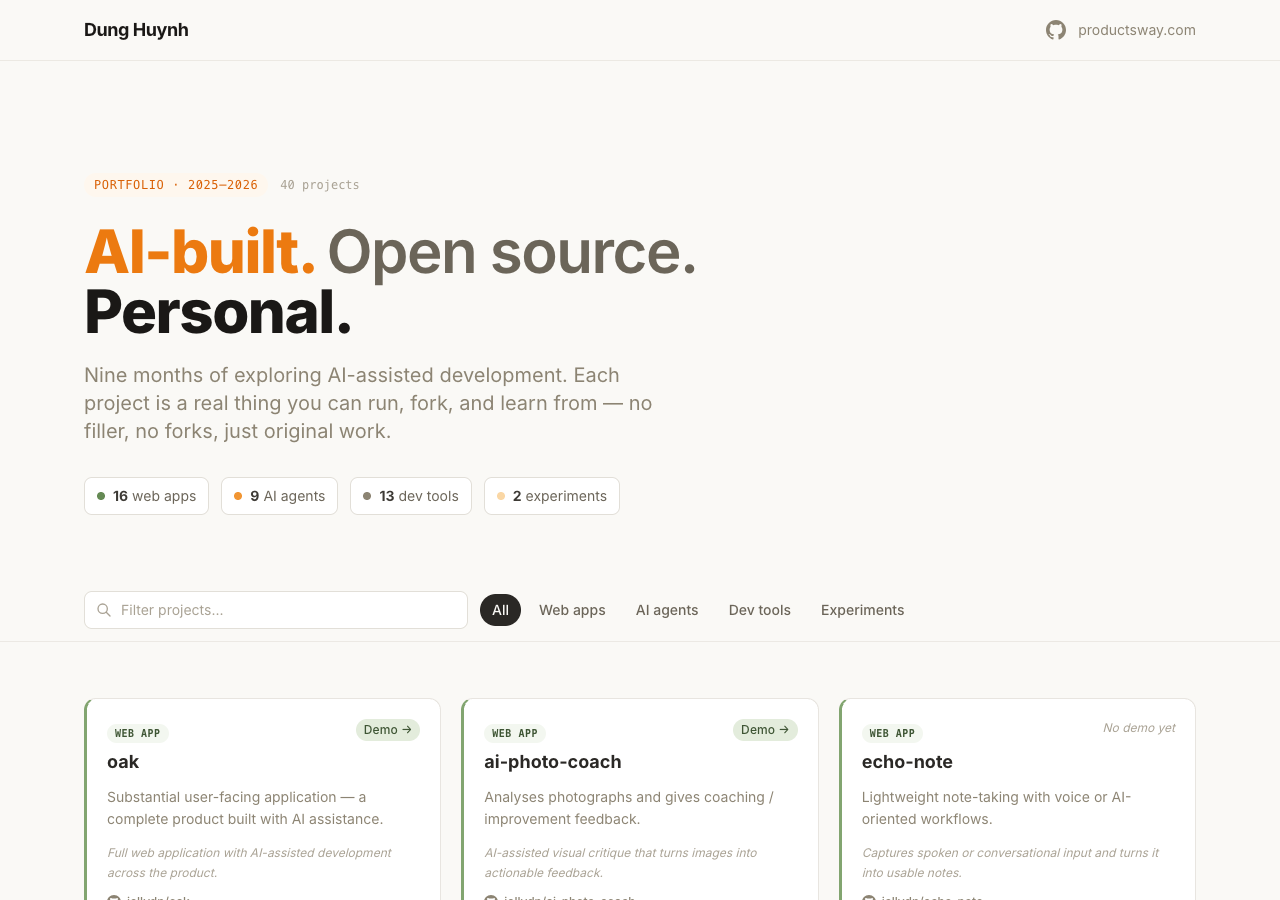
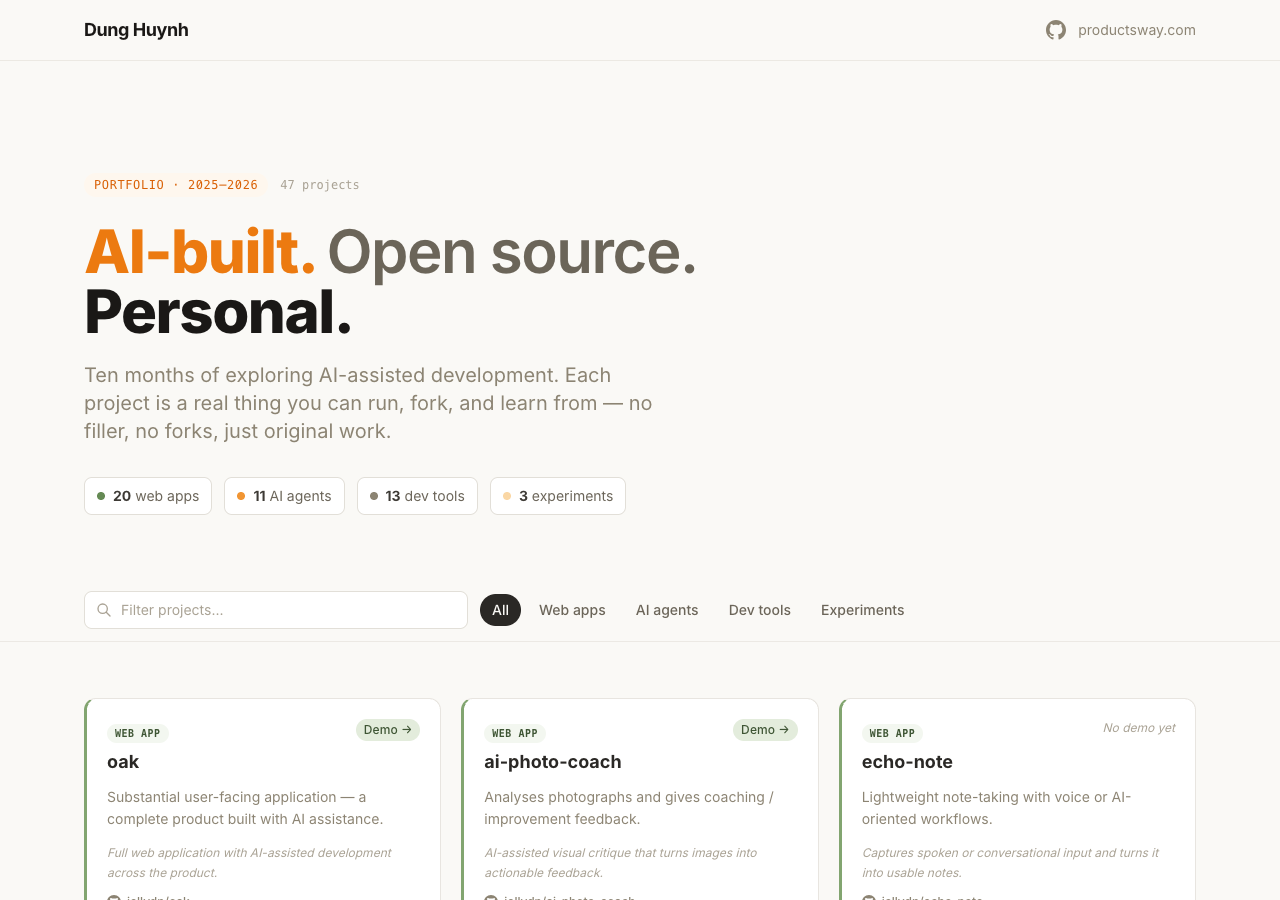
docs(assets): recapture showcase screenshots for the 47-project catalog
The showcase images and the branded OG card were still captures of the
40-project catalog, so every page that states a count sat next to an
image contradicting it — the point raised in review on #16.

- Recaptured 14 assets against the 47-project catalog: hero, the four
  filter views, both search states, the three full-page page captures,
  the desktop/mobile full-page JPGs, the full-page portfolio shot, and
  the README screenshot
- Rebuilt the OG share card, which still carried the 40-project copy, and
  committed its layout as docs/og-card.html so the next catalog change can
  regenerate it instead of recreating the design by hand
- Updated the declared width/height attributes to the real asset
  dimensions and verified every reference against the files, restoring
  the count-bearing alt text and captions now that the images match
- docs/images/README.md documents the capture recipe and the two
  content-visibility pitfalls that silently blank full-page captures

🤖 Generated with Codebuff

Changed region(s): [[0.0625, 0.4044, 0.5, 0.4356], [0.0938, 0.5289, 0.5, 0.56]]

diff --git a/docs/og-card.html b/docs/og-card.html
@@ -1,0 +1,139 @@
+<!DOCTYPE html>
+<html lang="en">
+<head>
+<meta charset="UTF-8">
+<title>personal-ai — OG share card source (1200×630)</title>
+<!--
+  Source template for showcase/screenshots/og-card.png.
+
+  This is NOT a page for visitors. It lives in docs/ rather than showcase/
+  because scripts/check-json-ld.js treats every showcase/*.html file as a real
+  page that must carry its own canonical URL and structured data.
+
+  Why it exists: the original card was rendered from a throwaway layout that was
+  never committed, so the branded share image could not be regenerated after the
+  catalog changed. Keeping the layout here makes the card reproducible.
+
+  Regenerate from the repository root:
+
+    python3 -m http.server 4321 --bind 127.0.0.1
+    agent-browser set viewport 1200 630 1
+    agent-browser open http://127.0.0.1:4321/docs/og-card.html
+    agent-browser wait --fn "document.fonts.status === 'loaded'"
+    agent-browser screenshot showcase/screenshots/og-card.png
+
+  Keep the numbers below in sync with the catalog in index.html.
+-->
+<link rel="preconnect" href="https://fonts.googleapis.com">
+<link rel="preconnect" href="https://fonts.gstatic.com" crossorigin>
+<link rel="stylesheet" href="https://fonts.googleapis.com/css2?family=Inter:wght@400;500;600;700;800&display=swap">
+<style>
+  * { box-sizing: border-box; margin: 0; padding: 0; }
+  html, body { width: 1200px; height: 630px; overflow: hidden; }
+  body {
+    font-family: 'Inter', ui-sans-serif, system-ui, -apple-system, sans-serif;
+    background: #faf9f6;
+    color: #2a2825;
+    display: flex;
+    align-items: center;
+    gap: 44px;
+    padding: 56px 60px;
+    -webkit-font-smoothing: antialiased;
+  }
+  /* Warm bloom in the corner, echoing the site accent without a hard edge. */
+  .glow {
+    position: absolute;
+    width: 520px; height: 520px;
+    right: -140px; top: -180px;
+    background: radial-gradient(circle, rgba(241,149,51,0.18), rgba(241,149,51,0) 68%);
+    border-radius: 50%;
+  }
+  .copy { position: relative; flex: 1 1 auto; max-width: 620px; }
+  .badge {
+    display: inline-block;
+    font-size: 12px;
+    font-weight: 600;
+    letter-spacing: 0.16em;
+    text-transform: uppercase;
+    color: #b44808;
+    background: #fef7ee;
+    border: 1px solid #fad7a5;
+    border-radius: 999px;
+    padding: 7px 13px;
+    margin-bottom: 22px;
+  }
+  h1 {
+    font-size: 47px;
+    line-height: 1.1;
+    font-weight: 800;
+    letter-spacing: -0.02em;
+    color: #1a1816;
+    margin-bottom: 18px;
+  }
+  h1 .accent { color: #ec7a10; }
+  .sub {
+    font-size: 17px;
+    line-height: 1.5;
+    color: #6b6559;
+    margin-bottom: 30px;
+  }
+  .stats { display: flex; gap: 30px; }
+  .stat em {
+    display: block;
+    font-style: normal;
+    font-size: 30px;
+    font-weight: 800;
+    color: #ec7a10;
+    line-height: 1.1;
+  }
+  .stat span {
+    display: block;
+    font-size: 12px;
+    font-weight: 500;
+    letter-spacing: 0.04em;
+    text-transform: uppercase;
+    color: #8c8473;
+    margin-top: 3px;
+  }
+  .shot {
+    position: relative;
+    flex: 0 0 400px;
+    width: 400px;
+    border: 1px solid #e2dfd8;
+    border-radius: 12px;
+    overflow: hidden;
+    background: #fff;
+    box-shadow: 0 26px 50px -18px rgba(42,40,37,0.30);
+    transform: rotate(-1.1deg);
+  }
+  .shot-bar {
+    display: flex;
+    align-items: center;
+    gap: 6px;
+    padding: 9px 12px;
+    background: #f0eeea;
+    border-bottom: 1px solid #e2dfd8;
+  }
+  .shot-bar i { width: 8px; height: 8px; border-radius: 50%; background: #c9c4b8; display: block; }
+  .shot img { display: block; width: 100%; height: auto; }
+</style>
+</head>
+<body>
+  <div class="glow"></div>
+  <div class="copy">
+    <span class="badge">AI-built • Open source • Personal</span>
+    <h1>47 open-source<br>projects, built with <span class="accent">AI</span>.</h1>
+    <p class="sub">Ten months of exploration, catalogued honestly — searchable, every project public and forkable.</p>
+    <div class="stats">
+      <div class="stat"><em>47</em><span>Projects</span></div>
+      <div class="stat"><em>28</em><span>Live demos</span></div>
+      <div class="stat"><em>20</em><span>Web apps</span></div>
+      <div class="stat"><em>3</em><span>Experiments</span></div>
+    </div>
+  </div>
+  <div class="shot">
+    <div class="shot-bar"><i></i><i></i><i></i></div>
+    <img src="../showcase/screenshots/hero.png" alt="The personal-ai tracker homepage">
+  </div>
+</body>
+</html>

diff --git a/showcase/index.html b/showcase/index.html
@@ -119,7 +119,7 @@
         <span class="browser-frame-dot"></span><span class="browser-frame-dot"></span><span class="browser-frame-dot"></span>
         <span class="browser-frame-url">github.com/jellydn/personal-ai</span>
       </div>
-      <img src="screenshots/hero.png" alt="The personal-ai portfolio homepage showing the grid of AI-built project cards" fetchpriority="high" width="1280" height="900">
+      <img src="screenshots/hero.png" alt="The personal-ai portfolio homepage showing a grid of 47 AI-built project cards" fetchpriority="high" width="1280" height="900">
     </div>
   </div>
 </header>
@@ -208,15 +208,15 @@
       <p>Every shot below is the running demo, captured live. Click any card to zoom in.</p>
     </div>
     <div class="gallery-grid">
-      <figure class="gallery-item" tabindex="-1" data-lightbox="screenshots/demo/portfolio.png" data-caption="The tracker — every project in one searchable grid">
+      <figure class="gallery-item" tabindex="-1" data-lightbox="screenshots/demo/portfolio.png" data-caption="The tracker — all 47 projects in one searchable grid">
         <div class="browser-frame">
           <div class="browser-frame-bar">
             <span class="browser-frame-dot"></span><span class="browser-frame-dot"></span><span class="browser-frame-dot"></span>
             <span class="browser-frame-url">github.com/jellydn/personal-ai</span>
           </div>
-          <img src="screenshots/demo/portfolio.png" alt="The personal-ai portfolio homepage showing the grid of AI-built project cards" loading="lazy" width="1280" height="4596">
+          <img src="screenshots/demo/portfolio.png" alt="The personal-ai portfolio homepage showing a grid of 47 AI-built project cards" loading="lazy" width="1280" height="4941">
         </div>
-        <figcaption class="gallery-caption">The tracker — every project, one searchable grid</figcaption>
+        <figcaption class="gallery-caption">The tracker — 47 projects, one searchable grid</figcaption>
       </figure>
       <figure class="gallery-item" tabindex="-1" data-lightbox="screenshots/demo/showcase-home.png" data-caption="The showcase home — hero, stats, and feature highlights">
         <div class="browser-frame">
@@ -224,7 +224,7 @@
             <span class="browser-frame-dot"></span><span class="browser-frame-dot"></span><span class="browser-frame-dot"></span>
             <span class="browser-frame-url">jellydn.github.io/personal-ai/showcase/</span>
           </div>
-          <img src="screenshots/demo/showcase-home.png" alt="The showcase marketing site homepage" loading="lazy" width="1280" height="9886">
+          <img src="screenshots/demo/showcase-home.png" alt="The showcase marketing site homepage" loading="lazy" width="1280" height="11361">
         </div>
         <figcaption class="gallery-caption">Showcase home — the story in one scroll</figcaption>
       </figure>
@@ -234,7 +234,7 @@
             <span class="browser-frame-dot"></span><span class="browser-frame-dot"></span><span class="browser-frame-dot"></span>
             <span class="browser-frame-url">jellydn.github.io/personal-ai/showcase/how-it-works.html</span>
           </div>
-          <img src="screenshots/demo/how-it-works.png" alt="The how-it-works walkthrough page" loading="lazy" width="1280" height="7196">
+          <img src="screenshots/demo/how-it-works.png" alt="The how-it-works walkthrough page" loading="lazy" width="1280" height="7023">
         </div>
         <figcaption class="gallery-caption">How it works — the full journey, step by step</figcaption>
       </figure>
@@ -244,7 +244,7 @@
             <span class="browser-frame-dot"></span><span class="browser-frame-dot"></span><span class="browser-frame-dot"></span>
             <span class="browser-frame-url">jellydn.github.io/personal-ai/showcase/features.html</span>
           </div>
-          <img src="screenshots/demo/features.png" alt="The features deep-dive page" loading="lazy" width="1280" height="7827">
+          <img src="screenshots/demo/features.png" alt="The features deep-dive page" loading="lazy" width="1280" height="7870">
         </div>
         <figcaption class="gallery-caption">Features — every capability, explained</figcaption>
       </figure>

diff --git a/showcase/how-it-works.html b/showcase/how-it-works.html
@@ -118,7 +118,7 @@
             <span class="browser-frame-dot"></span><span class="browser-frame-dot"></span><span class="browser-frame-dot"></span>
             <span class="browser-frame-url">jellydn.github.io/personal-ai</span>
           </div>
-          <img src="screenshots/hero-web.jpg" alt="The full project grid of the personal-ai tracker — the whole collection in one glance" fetchpriority="high" width="1200" height="4625">
+          <img src="screenshots/hero-web.jpg" alt="The full project grid of the personal-ai tracker — the whole collection in one glance" fetchpriority="high" width="1200" height="4941">
         </div>
       </div>
     </div>
@@ -191,7 +191,7 @@
       <div class="workflow-media">
         <div class="phone-frame">
           <div class="phone-frame-notch"></div>
-          <img src="screenshots/mobile-web.jpg" alt="The personal-ai tracker on a phone, showing the responsive layout" loading="lazy" width="520" height="11509">
+          <img src="screenshots/mobile-web.jpg" alt="The personal-ai tracker on a phone, showing the responsive layout" loading="lazy" width="520" height="11082">
         </div>
       </div>
     </div>

diff --git a/showcase/changelog.html b/showcase/changelog.html
@@ -121,6 +121,8 @@
           <li>Another dated pass over jellydn's GitHub: <strong>brave-buddy</strong> (a social-skills practice app for ages 6–12, with a live demo) joins web apps, while <strong>imagi</strong> (a native SwiftUI image studio) and <strong>muse-frame</strong> join AI apps.</li>
           <li>The tracker is now 47 projects (20 web apps · 11 AI agents · 13 dev tools · 3 experiments) with 28 live demos. The window runs through September 2026.</li>
           <li><strong>muse-frame</strong> was left out of the August pass as WIP and is listed now, alongside the other public originals.</li>
+          <li>Recaptured every showcase screenshot against the 47-project catalog — hero, the four filter views, both search states, the three full-page captures, the mobile/desktop full-page JPGs and the README shot — so the images match the counts they sit next to.</li>
+          <li>Rebuilt the branded OG share card, which still carried the 40-project copy, and committed its layout as <code>docs/og-card.html</code> so it can be regenerated next time instead of recreated by hand.</li>
         </ul>
       </article>
 

diff --git a/showcase/features.html b/showcase/features.html
@@ -146,7 +146,7 @@
             <span class="browser-frame-dot"></span><span class="browser-frame-dot"></span><span class="browser-frame-dot"></span>
             <span class="browser-frame-url">filter: AI agents</span>
           </div>
-          <img src="screenshots/filter-ai.png" alt="The tracker filtered to AI agent projects" loading="lazy" width="1280" height="900">
+          <img src="screenshots/filter-ai.png" alt="The tracker filtered to the 11 AI agent projects" loading="lazy" width="1280" height="900">
         </div>
       </div>
     </div>

diff --git a/docs/images/README.md b/docs/images/README.md
@@ -1,18 +1,18 @@
 # Screenshot capture guide
 
-This guide describes how to capture the recommended portfolio screenshot for the
-`personal-ai` project README.
+This guide describes how to capture the screenshots used by the project README
+and the showcase marketing site.
 
-## Recommended screenshot
+## README screenshot
 
 A single wide shot of the portfolio homepage showing the hero, the filter bar,
 and the first two rows of project cards.
 
-`docs/images/demo.png` still shows the previous 40-project grid. Recapture it
-after a catalog change so the README screenshot matches the live 47-project
-counts (20 web apps, 11 AI agents, 13 dev tools, 3 experiments).
+`docs/images/demo.png` was captured for the 47-project catalog (20 web apps,
+11 AI agents, 13 dev tools, 3 experiments). Recapture it after a catalog change
+so the README screenshot keeps matching the live counts.
 
-## Setup
+### Setup
 
 1. Start the dev server:
 
@@ -24,21 +24,21 @@ counts (20 web apps, 11 AI agents, 13 dev tools, 3 experiments).
 2. Open the printed local URL (default `http://localhost:3000`) in Chrome or
    Firefox.
 
-## Application state to display
+### Application state to display
 
 - **Filter**: "All" (default) so every category is visible.
 - **Search**: leave empty so the full grid renders.
 - **Scroll**: top of the page — the hero, stat badges, filter bar, and the first
   two rows of cards should all be visible without scrolling.
 
-## Sample input
+### Sample input
 
 No input is required. For an alternative shot, click the **"AI agents"** filter
 pill to show only the AI-agent category (11 cards). This demonstrates category
 filtering. To demonstrate text search instead, type `rag` in the filter box to
 narrow to the RAG-related projects.
 
-## Expected output
+### Expected output
 
 - Hero headline: **"AI-built. Open source. Personal."**
 - Stat badges: **20 web apps**, **11 AI agents**, **13 dev tools**, **3 experiments**.
@@ -47,7 +47,7 @@ narrow to the RAG-related projects.
 - Cards have a colored left border keyed to their category and a hover lift
   effect.
 
-## Recommended browser viewport
+### Recommended browser viewport
 
 - **Desktop**: 1440 × 1024 **CSS viewport** at a 2× device-pixel-ratio, which
   captures as 2880 × 2048 **physical screenshot pixels** (matching
@@ -56,13 +56,13 @@ narrow to the RAG-related projects.
 - Set browser zoom to 100%.
 - Hide the bookmarks bar for a cleaner shot.
 
-## Sensitive information to hide
+### Sensitive information to hide
 
 This site contains **no secrets, tokens, or personal data** beyond the author's
 public name and links, so no redaction is required. If you capture the terminal
 in the same frame, ensure no environment variables or API keys are visible.
 
-## Saving the screenshot
+### Saving the screenshot
 
 Save the final image to this folder as `demo.png`:
 
@@ -75,3 +75,71 @@ Then reference it from the project README:
 ```markdown
 ![Application screenshot](docs/images/demo.png)
 ```
+
+## Showcase screenshots
+
+`showcase/screenshots/` holds the images used by the marketing pages. They are
+captures of the running site, so they go stale whenever the catalog does.
+
+| Asset | Source page | Viewport | Format |
+| --- | --- | --- | --- |
+| `hero.png` | `index.html` (top) | 1280 × 900 | PNG |
+| `filter-web.png`, `filter-ai.png`, `filter-dev.png`, `filter-experiments.png` | `index.html`, with the matching filter pill clicked | 1280 × 900 | PNG |
+| `search-local.png`, `search-pomodoro.png` | `index.html`, with `local` / `pomodoro` typed into the search box | 1280 × 900 | PNG |
+| `hero-web.jpg` | `index.html`, full page | 1200 wide | JPEG |
+| `mobile-web.jpg` | `index.html`, full page | 520 wide | JPEG |
+| `demo/portfolio.png` | `index.html`, full page | 1280 wide | PNG |
+| `demo/showcase-home.png` | `showcase/index.html`, full page | 1280 wide | PNG |
+| `demo/how-it-works.png` | `showcase/how-it-works.html`, full page | 1280 wide | PNG |
+| `demo/features.png` | `showcase/features.html`, full page | 1280 wide | PNG |
+| `og-card.png` | `docs/og-card.html` (a layout, not a page) | 1200 × 630 | PNG |
+
+Serve the repository root and drive Chrome with `agent-browser`
+(`set viewport <w> <h> <scale>`, then `screenshot [--full]`).
+
+### Two gotchas worth knowing
+
+1. **Full-page captures go blank below the first screens.** `index.html` and
+   `showcase/styles.css` use `content-visibility: auto` to defer off-screen
+   rendering, so an unscrolled full-page capture leaves those regions empty.
+   Injecting `* { content-visibility: visible !important; }` fixes it, and on
+   `index.html` also removes the `contain-intrinsic-size` placeholder padding
+   (the page's true height is ~4941px, not the ~5202px it reserves).
+2. **Do not use that override on `showcase/how-it-works.html`.** It makes the
+   page's 11,509px-tall phone-frame image contain itself, inflating the document
+   from 7,023px to 16,548px and capturing a layout that is not what visitors
+   see. Capture that page with no override.
+
+Both gotchas are inherited from the existing assets: the committed captures
+predate this note and contain the same deferred-rendering gaps.
+
+### Verifying a capture without eyeballing it
+
+Declared dimensions in the HTML must match the files. `width`/`height`
+attributes are set from the real asset sizes, so after recapturing, compare each
+`<img>` against the file and update any that changed:
+
+```bash
+sips -g pixelWidth -g pixelHeight showcase/screenshots/<asset>
+```
+
+`mac-ocr` can confirm a capture shows what it should — for example that
+`hero.png` reads back "47 projects" and the 20/11/13/3 stat chips. It is not
+reliable on very tall images (a 520×11,082 file returns nothing); crop bands
+with ffmpeg and OCR those instead.
+
+### Regenerating the OG share card
+
+The card is a rendered layout. `docs/og-card.html` is its committed source, so
+regenerate rather than redesign:
+
+```bash
+python3 -m http.server 4321 --bind 127.0.0.1     # from the repository root
+agent-browser set viewport 1200 630 1
+agent-browser open http://127.0.0.1:4321/docs/og-card.html
+agent-browser wait --fn "document.fonts.status === 'loaded'"
+agent-browser screenshot showcase/screenshots/og-card.png
+```
+
+Keep the counts inside `docs/og-card.html` in sync with the catalog in
+`index.html` when you regenerate it.
